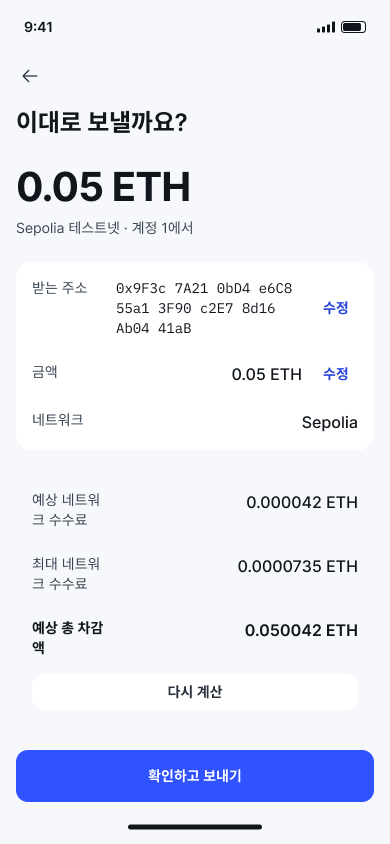
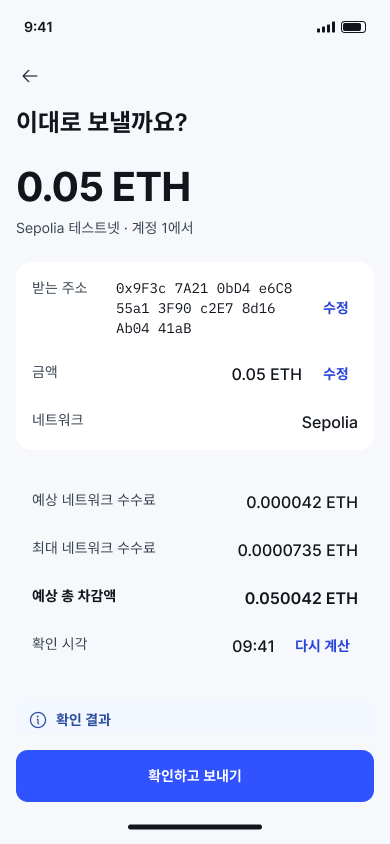
fix(mobile): check time row with recalc link on Review (#9)

diff --git a/apps/mobile/src/shared/ui/SummaryRow.tsx b/apps/mobile/src/shared/ui/SummaryRow.tsx
@@ -14,11 +14,13 @@ type Props = {
   /** Text value in Product / Address (mono), e.g. a shortened address. */
   mono?: boolean
   editLabel?: string
+  /** Overrides the edit link's accessibilityLabel (default: `${editLabel} ${label}`). */
+  editAccessibilityLabel?: string
   onEdit?: () => void
 }
 
 /** C35 Summary row: label, value, optional trailing link (44 pt target). Flat and without a divider: group rows in <Group>. */
-export function SummaryRow({ label, value, format = 'text', highlight, mono, editLabel, onEdit }: Props) {
+export function SummaryRow({ label, value, format = 'text', highlight, mono, editLabel, editAccessibilityLabel, onEdit }: Props) {
   const t = useTheme()
   const labelWidth = t.primitive.space[10] + t.primitive.space[8] // 72
   const total = format === 'total'
@@ -28,7 +30,7 @@ export function SummaryRow({ label, value, format = 'text', highlight, mono, edi
     <View
       accessible={!onEdit}
       accessibilityLabel={onEdit ? undefined : `${label}, ${value}`}
-      style={{ flexDirection: stacked ? 'column' : 'row', alignItems: stacked ? 'stretch' : 'flex-start', gap: t.semantic.layout.rowGap, minHeight: t.primitive.size.touch_min, paddingVertical: t.primitive.space[3] }}
+      style={{ flexDirection: stacked ? 'column' : 'row', alignItems: stacked ? 'stretch' : format === 'address' ? 'flex-start' : 'center', gap: t.semantic.layout.rowGap, minHeight: t.primitive.size.touch_min, paddingVertical: t.primitive.space[3] }}
     >
       <Text variant={total ? 'label' : 'body'} color={total ? t.semantic.text.primary : t.semantic.text.secondary} style={stacked ? undefined : { minWidth: labelWidth }}>{label}</Text>
       <View style={stacked ? undefined : { flex: 1 }}>
@@ -41,7 +43,7 @@ export function SummaryRow({ label, value, format = 'text', highlight, mono, edi
       {onEdit ? (
         <Pressable
           accessibilityRole="button"
-          accessibilityLabel={`${editLabel ?? ''} ${label}`.trim()}
+          accessibilityLabel={editAccessibilityLabel ?? `${editLabel ?? ''} ${label}`.trim()}
           onPress={onEdit}
           style={{ minWidth: t.primitive.size.touch_min, minHeight: t.primitive.size.touch_min, alignSelf: stacked ? 'flex-start' : 'stretch', alignItems: 'center', justifyContent: 'center', paddingHorizontal: t.primitive.space[2] }}
         >

diff --git a/apps/mobile/src/widgets/review-panel/ReviewPanel.tsx b/apps/mobile/src/widgets/review-panel/ReviewPanel.tsx
@@ -6,7 +6,7 @@ import { review } from '@/entities/transaction/fixtures'
 import type { ReviewValues } from '@/entities/transaction/review'
 import { diffGroups, groupAddress } from '@/shared/lib/address'
 import { useTheme } from '@/shared/theme'
-import { Button, Group, StatusNotice, SummaryRow, Text } from '@/shared/ui'
+import { Group, StatusNotice, SummaryRow, Text } from '@/shared/ui'
 
 const nowHHMM = () => new Date().toTimeString().slice(0, 5)
 
@@ -15,7 +15,7 @@ type Props = { values: ReviewValues; onEditRecipient: () => void; onEditAmount: 
 /**
  * R-S22 Review body: question, amount, the answers as flat Summary rows in one white group, fee and total, then one check notice.
  * `values.previous` set = look-alike recipient (R-S22L): the differing 4-char chunks are marked and the notice is a warning.
- * Values come from the entered recipient and amount; fee and check time are fixtures. "다시 계산" re-reads the fixture and sets the check time to now.
+ * Values come from the entered recipient and amount; fee and check time are fixtures. the "다시 계산" link on the check-time row sets the check time to now.
  */
 export function ReviewPanel({ values, onEditRecipient, onEditAmount }: Props) {
   const { t } = useTranslation()
@@ -43,7 +43,7 @@ export function ReviewPanel({ values, onEditRecipient, onEditAmount }: Props) {
         <SummaryRow label={t('review.fee')} value={values.fee} />
         <SummaryRow label={t('review.feeCap')} value={values.feeCap} />
         <SummaryRow format="total" label={t('review.total')} value={values.total} />
-        <Button label={t('review.recalc')} variant="ghost" size="sm" onPress={() => setCheckedAt(nowHHMM())} />
+        <SummaryRow label={t('review.checkedAt')} value={checkedAt} editLabel={t('review.recalc')} editAccessibilityLabel={t('review.recalcLabel')} onEdit={() => setCheckedAt(nowHHMM())} />
       </Group>
       {risk ? (
         <StatusNotice tone="warning" title={t('review.lookalike.title', { count: diff.length })} body={t('review.lookalike.body', { chunks })} />

diff --git a/packages/i18n/src/ko.ts b/packages/i18n/src/ko.ts
@@ -65,6 +65,8 @@ export const ko = {
     fee: '예상 네트워크 수수료',
     feeCap: '최대 네트워크 수수료',
     recalc: '다시 계산',
+    recalcLabel: '수수료 다시 계산',
+    checkedAt: '확인 시각',
     total: '예상 총 차감액',
     checkedTitle: '확인 결과',
     checkedBody: '잔액, 수수료, 주소 형식을 {{time}}에 확인했어요. 받는 사람의 안전을 보증하지는 않아요.',
